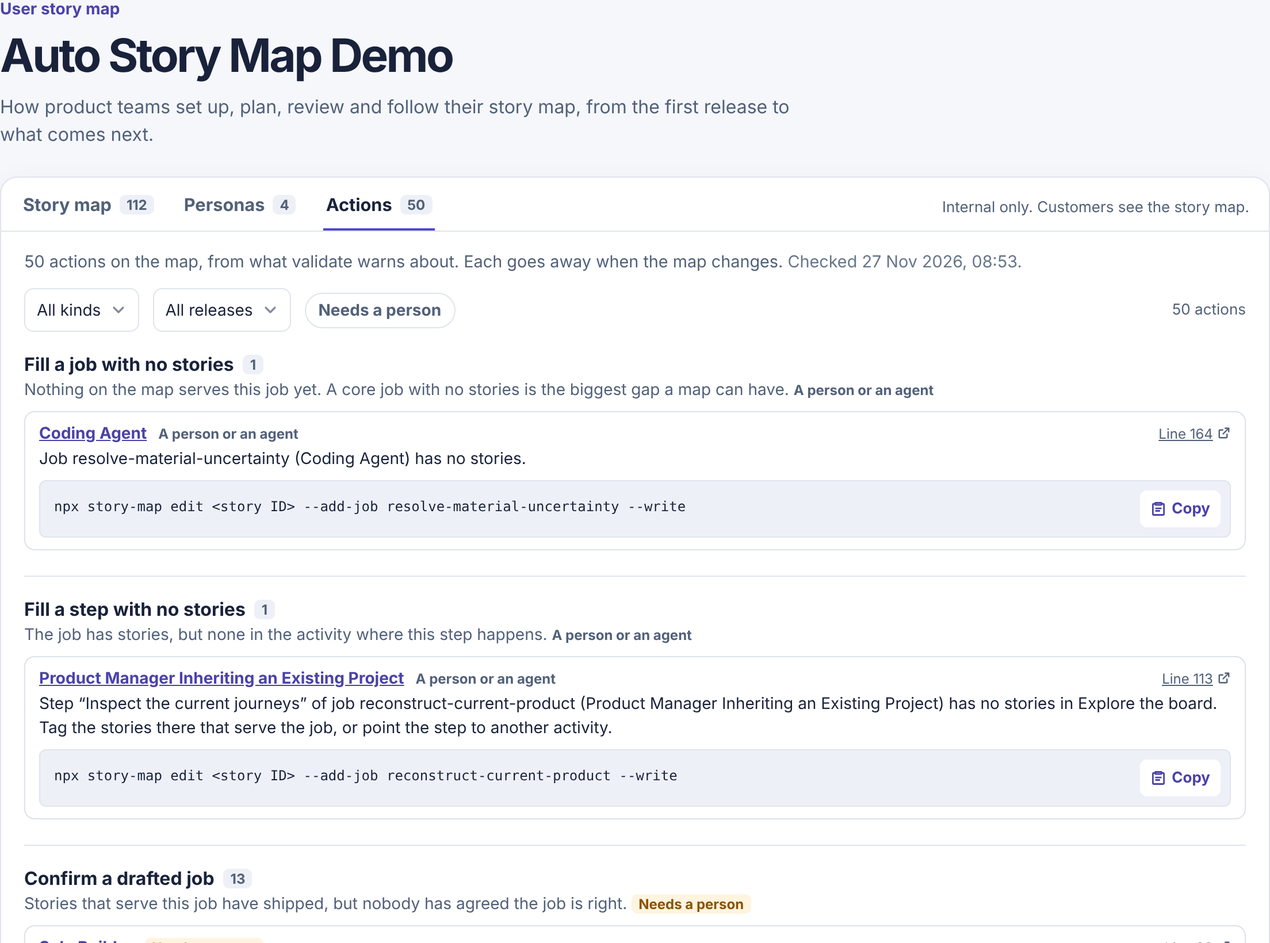
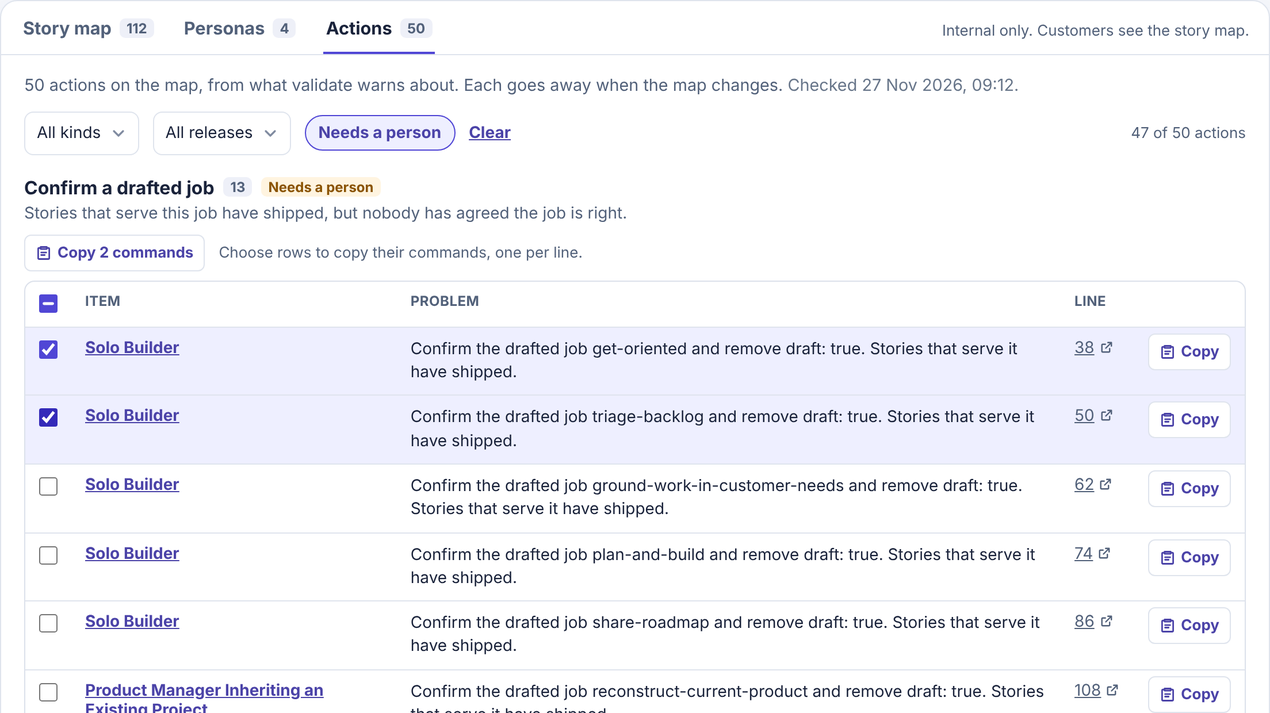
ESM-128: Show actions as tables with copy buttons and bulk copy
Each kind of action is a table with a row per item. Commands are no longer
shown: each row has a Copy button, and ticking rows copies their commands,
one per line. Filter menus offer only choices that match the other filters.

Claude-Session: https://claude.ai/code/session_01Lq2MQQazU2F98gEqQ6vB8y

diff --git a/src/react.tsx b/src/react.tsx
@@ -1901,35 +1901,93 @@ function WhoActs({ needsPerson }: { needsPerson: boolean }) {
     : <span className="esm-action-who">A person or an agent</span>;
 }
 
-/** The fixing command with a **Copy** button that board.js shows when it can copy. */
-function ActionCommand({ command, id }: { command: string; id: string }) {
+/**
+ * Copies one action's command. The command is not shown: it travels in `data-esm-command`,
+ * and board.js shows the button once it can copy. `label` names the item for screen readers.
+ */
+function CopyCommandButton({ command, label }: { command: string; label: string }) {
   return (
-    <div className="esm-change-command esm-action-command">
-      <code id={id}>{command}</code>
-      <button type="button" className="esm-change-copy" data-esm-copy-command={id} aria-describedby={id} hidden>
-        <BriefIcon /><span data-esm-copy-label="">Copy</span>
-      </button>
-    </div>
+    <button type="button" className="esm-change-copy esm-action-copy" data-esm-copy-command={command} title={command} hidden>
+      <BriefIcon /><span data-esm-copy-label="">Copy</span><span className="esm-visually-hidden">{` the command for ${label}`}</span>
+    </button>
   );
 }
 
-/** One action: its item, what to do, who can do it, its line in the map and its command. */
-function ActionEntry({ action, id, links, title }: { action: StoryMapAction; id: string; links: ActionLinks; title?: string }) {
-  // In a panel the item is the panel's own, so the row names the kind instead.
-  const item = title ? { label: title } : links.item(action);
-  const lineHref = links.line(action);
+/** The cell that links to an action's line in the map, or names it. */
+function ActionLine({ action, links }: { action: StoryMapAction; links: ActionLinks }) {
+  if (action.line === undefined) return null;
+  const href = links.line(action);
+  return href
+    ? <a href={href} {...newTab}>{action.line}<NewTabHint /></a>
+    : <>{action.line}</>;
+}
+
+/**
+ * One kind's actions as a table: a row per item, with its release, the problem, its line and,
+ * where a command fixes it, a **Copy** button. Rows with a command get a checkbox, and the
+ * **Copy commands** button above copies the chosen rows' commands, one per line. board.js
+ * shows the checkboxes and buttons once it can copy, so without it the table only reads.
+ */
+function ActionTable({ group, links, caption, releaseTitles, tableId }: {
+  group: StoryMapActionGroup;
+  links: ActionLinks;
+  caption: string;
+  releaseTitles: ReadonlyMap<string, string>;
+  tableId: string;
+}) {
+  const commands = group.actions.filter(action => action.command).length;
+  // A release's own actions are in that release, so the column only helps for stories.
+  const showRelease = group.actions.some(action => action.release && action.item.type === "story");
+  const showLine = group.actions.some(action => action.line !== undefined);
   return (
-    <li className="esm-action">
-      <p className="esm-action-head">
-        {item && (item.href ? <a className="esm-action-item" href={item.href}>{item.label}</a> : <span className="esm-action-item">{item.label}</span>)}
-        <WhoActs needsPerson={action.needsPerson} />
-        {action.line !== undefined && (lineHref
-          ? <a className="esm-action-line" href={lineHref} {...newTab}>{`Line ${action.line}`}<NewTabHint /></a>
-          : <span className="esm-action-line">{`Line ${action.line}`}</span>)}
-      </p>
-      <p className="esm-action-message">{action.message}</p>
-      {action.command && <ActionCommand command={action.command} id={id} />}
-    </li>
+    <div className="esm-action-table-wrap" data-esm-action-table={commands ? "" : undefined}>
+      {commands > 1 && (
+        <p className="esm-action-bulk" hidden>
+          <button type="button" className="esm-change-copy" data-esm-copy-selected={tableId} disabled>
+            <BriefIcon /><span data-esm-copy-label="">Copy commands</span>
+          </button>
+          <span className="esm-action-bulk-note" data-esm-selected-note="">Choose rows to copy their commands, one per line.</span>
+        </p>
+      )}
+      <table className="esm-action-table" id={tableId}>
+        <caption className="esm-visually-hidden">{caption}</caption>
+        <thead>
+          <tr>
+            {commands > 1 && (
+              <th scope="col" className="esm-action-select">
+                <input type="checkbox" data-esm-select-all="" aria-label={`Choose every row in ${group.title}`} />
+              </th>
+            )}
+            <th scope="col">Item</th>
+            {showRelease && <th scope="col">Release</th>}
+            <th scope="col">Problem</th>
+            {showLine && <th scope="col" className="esm-action-line">Line</th>}
+            {commands > 0 && <th scope="col" className="esm-action-copy-cell"><span className="esm-visually-hidden">Copy command</span></th>}
+          </tr>
+        </thead>
+        <tbody>
+          {group.actions.map((action, index) => {
+            const item = links.item(action);
+            return (
+              <tr key={index}>
+                {commands > 1 && (
+                  <td className="esm-action-select">
+                    {action.command && <input type="checkbox" data-esm-select={action.command} aria-label={`Choose ${item?.label ?? "this row"}`} />}
+                  </td>
+                )}
+                <th scope="row" className="esm-action-item">
+                  {item && (item.href ? <a href={item.href}>{item.label}</a> : item.label)}
+                </th>
+                {showRelease && <td className="esm-action-release">{action.item.type === "story" && action.release ? releaseTitles.get(action.release) ?? action.release : ""}</td>}
+                <td className="esm-action-message">{action.message}</td>
+                {showLine && <td className="esm-action-line"><ActionLine action={action} links={links} /></td>}
+                {commands > 0 && <td className="esm-action-copy-cell">{action.command && <CopyCommandButton command={action.command} label={item?.label ?? group.title} />}</td>}
+              </tr>
+            );
+          })}
+        </tbody>
+      </table>
+    </div>
   );
 }
 
@@ -1973,8 +2031,16 @@ function ActionsPage({ groups, filter, preservedParams, releases, links, checked
     delete next[key];
     return actionsHref(filter, preservedParams, next);
   };
-  const releaseIds = new Set(groups.flatMap(group => group.actions.flatMap(action => action.release ? [action.release] : [])));
-  const releaseTitle = (id: string) => releases.find(release => release.id === id)?.title ?? id;
+  // Each menu offers only choices that still match the other filters, so a choice never empties the list.
+  const otherThan = (key: keyof StoryMapActionFilter) => {
+    const rest = { ...chosen };
+    delete rest[key];
+    return filterStoryMapActions(groups, rest);
+  };
+  const kindGroups = otherThan("kind");
+  const releaseIds = new Set(otherThan("release").flatMap(group => group.actions.flatMap(action => action.release ? [action.release] : [])));
+  const releaseTitles = new Map(releases.map(release => [release.id, release.title]));
+  const releaseTitle = (id: string) => releaseTitles.get(id) ?? id;
   const itemLabel = chosen.item;
   const filtering = Object.keys(chosen).length > 0;
   return (
@@ -1994,7 +2060,7 @@ function ActionsPage({ groups, filter, preservedParams, releases, links, checked
             chosen={chosen.kind && storyMapActionKinds[chosen.kind].title}
             options={[
               { label: "All kinds", href: without("kind"), current: !chosen.kind },
-              ...groups.map(group => ({ label: `${group.title} (${group.actions.length})`, href: href({ kind: group.kind }), current: chosen.kind === group.kind })),
+              ...kindGroups.map(group => ({ label: `${group.title} (${group.actions.length})`, href: href({ kind: group.kind }), current: chosen.kind === group.kind })),
             ]}
           />
           {releaseIds.size > 0 && (
@@ -2020,13 +2086,9 @@ function ActionsPage({ groups, filter, preservedParams, releases, links, checked
         const headingId = `${baseId}-action-group-${groupIndex}`;
         return (
           <section className="esm-action-group" aria-labelledby={headingId} key={group.kind} data-kind={group.kind}>
-            <h3 id={headingId}>{group.title} <span className="esm-tab-count">{group.actions.length}</span></h3>
-            <p className="esm-action-why">{group.why} <WhoActs needsPerson={group.needsPerson} /></p>
-            <ul className="esm-action-list">
-              {group.actions.map((action, index) => (
-                <ActionEntry action={action} id={`${baseId}-action-${groupIndex}-${index}`} links={links} key={index} />
-              ))}
-            </ul>
+            <h3 id={headingId}>{group.title} <span className="esm-tab-count">{group.actions.length}</span> <WhoActs needsPerson={group.needsPerson} /></h3>
+            <p className="esm-action-why">{group.why}</p>
+            <ActionTable group={group} links={links} caption={group.title} releaseTitles={releaseTitles} tableId={`${baseId}-action-table-${groupIndex}`} />
           </section>
         );
       })}
@@ -2055,8 +2117,18 @@ function ItemActions({ groups, type, id, panelId, links, tabHref, page = false }
     <section className={page ? "esm-page-actions esm-item-actions" : "esm-detail-section esm-item-actions"} aria-labelledby={headingId}>
       <h4 id={headingId}>Actions</h4>
       <ul className="esm-action-list">
-        {mine.flatMap((group, groupIndex) => group.actions.map((action, index) => (
-          <ActionEntry action={action} id={`${panelId}-action-${groupIndex}-${index}`} links={links} title={group.title} key={`${group.kind}-${index}`} />
+        {mine.flatMap(group => group.actions.map((action, index) => (
+          <li className="esm-action" key={`${group.kind}-${index}`}>
+            <div className="esm-action-text">
+              <p className="esm-action-head">
+                <span className="esm-action-item">{group.title}</span>
+                <WhoActs needsPerson={action.needsPerson} />
+                {action.line !== undefined && <span className="esm-action-line">Line <ActionLine action={action} links={links} /></span>}
+              </p>
+              <p className="esm-action-message">{action.message}</p>
+            </div>
+            {action.command && <CopyCommandButton command={action.command} label={group.title} />}
+          </li>
         )))}
       </ul>
       {tabHref && <p className="esm-item-actions-link"><a href={tabHref}>See them on the Actions tab<span aria-hidden="true"> →</span></a></p>}

diff --git a/styles.css b/styles.css
@@ -682,19 +682,41 @@ button.esm-persona-chip:hover { background: var(--esm-hover); }
 .esm-action-chip a { padding: 0 5px; border-radius: 999px; color: var(--esm-muted); text-decoration: none; }
 .esm-actions-filters .esm-clear { color: var(--esm-accent-ink); font-size: .875rem; font-weight: 650; }
 .esm-actions-filters .esm-results { margin-left: auto; color: var(--esm-muted); font-size: .8125rem; }
-.esm-action-group + .esm-action-group { margin-top: 22px; padding-top: 18px; border-top: 1px solid var(--esm-line); }
-.esm-action-group h3 { display: flex; align-items: center; gap: 8px; margin: 0 0 4px; font-size: 1rem; }
+.esm-action-group + .esm-action-group { margin-top: 24px; padding-top: 18px; border-top: 1px solid var(--esm-line); }
+.esm-action-group h3 { display: flex; flex-wrap: wrap; align-items: center; gap: 8px; margin: 0 0 4px; font-size: 1rem; }
 .esm-action-why { margin: 0 0 10px; color: var(--esm-muted); font-size: .875rem; }
-.esm-action-list { display: grid; gap: 8px; margin: 0; padding: 0; list-style: none; }
-.esm-action { padding: 10px 12px; border: 1px solid var(--esm-card-line); border-radius: 9px; background: var(--esm-paper); }
-.esm-action-head { display: flex; flex-wrap: wrap; align-items: baseline; gap: 4px 10px; margin: 0; font-size: .875rem; }
-.esm-action-item { color: var(--esm-ink); font-weight: 650; }
-a.esm-action-item { color: var(--esm-accent-ink); }
 .esm-action-who { color: var(--esm-muted); font-size: .75rem; font-weight: 650; }
 .esm-action-who[data-person] { padding: 1px 6px; border-radius: 5px; background: var(--esm-stalled-bg); color: var(--esm-stalled); }
-.esm-action-line { margin-left: auto; color: var(--esm-muted); font-size: .75rem; }
-.esm-action-message { margin: 4px 0 0; font-size: .875rem; line-height: 1.45; overflow-wrap: anywhere; }
-.esm-action-command { margin-top: 8px; }
+.esm-action-bulk { display: flex; flex-wrap: wrap; align-items: center; gap: 6px 12px; margin: 0 0 8px; }
+.esm-action-bulk[hidden] { display: none; }
+.esm-action-bulk .esm-change-copy { border: 1px solid var(--esm-line); }
+.esm-action-bulk-note { color: var(--esm-muted); font-size: .8125rem; }
+.esm-action-table-wrap { overflow-x: auto; }
+.esm-action-table { width: 100%; border: 1px solid var(--esm-card-line); border-radius: 9px; border-collapse: separate; border-spacing: 0; background: var(--esm-paper); font-size: .875rem; }
+.esm-action-table th, .esm-action-table td { padding: 9px 12px; border-bottom: 1px solid var(--esm-line); text-align: left; vertical-align: top; }
+.esm-action-table tbody tr:last-child > * { border-bottom: 0; }
+.esm-action-table thead th { color: var(--esm-muted); font-size: .75rem; font-weight: 700; letter-spacing: .02em; text-transform: uppercase; white-space: nowrap; }
+.esm-action-table tbody tr:hover { background: var(--esm-hover); }
+.esm-action-table tbody tr:has(input[data-esm-select]:checked) { background: var(--esm-activity-bg); }
+.esm-action-table .esm-action-item { min-width: 9rem; font-weight: 650; }
+.esm-action-table .esm-action-item a { color: var(--esm-accent-ink); }
+.esm-action-release { min-width: 7rem; color: var(--esm-muted); }
+.esm-action-message { line-height: 1.45; overflow-wrap: anywhere; }
+.esm-action-table .esm-action-line { width: 1%; color: var(--esm-muted); white-space: nowrap; }
+.esm-action-line a { color: var(--esm-muted); }
+.esm-action-select { display: none; width: 1%; }
+.esm-board[data-esm-actions] .esm-action-select { display: table-cell; }
+.esm-action-select input { width: 16px; height: 16px; margin: 2px 0 0; accent-color: var(--esm-accent); }
+.esm-action-copy-cell { width: 1%; text-align: right; white-space: nowrap; }
+.esm-action-table .esm-action-copy-cell { padding-top: 5px; padding-bottom: 5px; }
+.esm-action-copy { border: 1px solid var(--esm-line); }
+.esm-action-list { display: grid; gap: 8px; margin: 0; padding: 0; list-style: none; }
+.esm-action { display: flex; align-items: flex-start; gap: 10px; padding: 10px 12px; border: 1px solid var(--esm-card-line); border-radius: 9px; background: var(--esm-paper); }
+.esm-action-text { flex: 1; min-width: 0; }
+.esm-action-head { display: flex; flex-wrap: wrap; align-items: baseline; gap: 4px 10px; margin: 0; font-size: .875rem; }
+.esm-action .esm-action-item { color: var(--esm-ink); font-weight: 650; }
+.esm-action .esm-action-line { margin-left: auto; color: var(--esm-muted); font-size: .75rem; }
+.esm-action .esm-action-message { margin: 4px 0 0; font-size: .875rem; }
 .esm-item-actions .esm-action { padding: 8px 10px; }
 .esm-item-actions-link { margin: 8px 0 0; font-size: .875rem; }
 .esm-page-actions { margin: 0 0 18px; }
@@ -875,7 +897,20 @@ a.esm-action-item { color: var(--esm-accent-ink); }
   .esm-persona-page { display: block; }
   .esm-actions { padding: 14px 12px 20px; }
   .esm-actions-filters .esm-results { margin-left: 0; flex-basis: 100%; }
-  .esm-action-line { margin-left: 0; }
+  .esm-action .esm-action-line { margin-left: 0; }
+  .esm-action-table thead { position: absolute; width: 1px; height: 1px; overflow: hidden; clip-path: inset(50%); white-space: nowrap; }
+  .esm-action-table, .esm-action-table tbody, .esm-action-table tr { display: block; }
+  .esm-action-table tr { display: grid; grid-template-columns: minmax(0, 1fr) auto; gap: 2px 10px; padding: 10px 12px; border-bottom: 1px solid var(--esm-line); }
+  .esm-action-table tbody tr:last-child { border-bottom: 0; }
+  .esm-action-table th, .esm-action-table td { display: block; padding: 0; border: 0; }
+  .esm-action-table .esm-action-item, .esm-action-table .esm-action-release, .esm-action-table .esm-action-message, .esm-action-table td.esm-action-line { grid-column: 1; min-width: 0; width: auto; }
+  .esm-action-table .esm-action-copy-cell { grid-column: 2; grid-row: 1 / span 4; }
+  /* With board.js, a checkbox column goes first. */
+  .esm-board[data-esm-actions] .esm-action-table tr:has(> .esm-action-select) { grid-template-columns: auto minmax(0, 1fr) auto; }
+  .esm-board[data-esm-actions] .esm-action-table .esm-action-select { display: block; grid-column: 1; grid-row: 1 / span 4; }
+  .esm-board[data-esm-actions] .esm-action-table tr:has(> .esm-action-select) > :not(.esm-action-select, .esm-action-copy-cell) { grid-column: 2; }
+  .esm-board[data-esm-actions] .esm-action-table tr:has(> .esm-action-select) > .esm-action-copy-cell { grid-column: 3; }
+  .esm-action-table td.esm-action-line:not(:empty)::before { content: "Line "; }
   .esm-persona-list { display: none; }
   .esm-persona-picker { display: block; padding: 12px 12px 0; }
   .esm-persona-picker > .esm-select { display: flex; align-items: center; gap: 8px; width: 100%; }

diff --git a/src/board.ts b/src/board.ts
@@ -571,26 +571,75 @@ export function enhanceStoryMapChanges(root: ParentNode = document) {
 
 const enhancedActions = new WeakSet<Element>();
 
+/** “Copy 3 commands”, or “Copy commands” when nothing is chosen. */
+function selectedLabel(count: number) {
+  return count === 0 ? "Copy commands" : count === 1 ? "Copy 1 command" : `Copy ${count} commands`;
+}
+
 /**
- * Shows the **Copy** button beside each action's command, on the Actions tab and in panels,
- * and makes it copy the command, saying “Copied command”. Without clipboard access, the
- * buttons stay hidden and the command can still be selected. Safe to call more than once.
+ * Turns on the Actions tables, on the Actions tab and in panels, once the clipboard can be used:
+ * shows each row's **Copy** button, which copies its command from `data-esm-copy-command`, and,
+ * in tables with more than one command, the row checkboxes, a select-all box and **Copy commands**,
+ * which copies the chosen rows' commands, one per line. Says what it copied in the board's live
+ * region. Without clipboard access, nothing changes and the tables only read. Safe to call more than once.
  */
 export function enhanceStoryMapActions(root: ParentNode = document) {
   if (typeof navigator === "undefined" || !navigator.clipboard?.writeText) return;
   for (const board of root.querySelectorAll<HTMLElement>(".esm-board")) {
     if (enhancedActions.has(board)) continue;
     enhancedActions.add(board);
+    // CSS shows the checkbox column once this is set.
+    board.dataset.esmActions = "";
     for (const button of board.querySelectorAll<HTMLButtonElement>("button[data-esm-copy-command]")) button.hidden = false;
+    for (const bulk of board.querySelectorAll<HTMLElement>(".esm-action-bulk")) bulk.hidden = false;
+
+    const copy = (text: string, control: HTMLElement, said: string) => {
+      navigator.clipboard.writeText(text).then(() => {
+        showCopied(control, "Copied");
+        announce(board, said);
+      }, () => announce(board, "Could not copy. Run story-map actions in a terminal to see the commands."));
+    };
+    const tableFor = (element: Element) => element.closest<HTMLElement>("[data-esm-action-table]");
+    const update = (wrap: HTMLElement) => {
+      const boxes = [...wrap.querySelectorAll<HTMLInputElement>("input[data-esm-select]")];
+      const chosen = boxes.filter(box => box.checked).length;
+      const all = wrap.querySelector<HTMLInputElement>("input[data-esm-select-all]");
+      if (all) {
+        all.checked = chosen > 0 && chosen === boxes.length;
+        all.indeterminate = chosen > 0 && chosen < boxes.length;
+      }
+      const button = wrap.querySelector<HTMLButtonElement>("button[data-esm-copy-selected]");
+      if (button) {
+        button.disabled = chosen === 0;
+        const label = button.querySelector<HTMLElement>("[data-esm-copy-label]");
+        if (label) {
+          label.textContent = selectedLabel(chosen);
+          label.dataset.esmLabel = selectedLabel(chosen);
+        }
+      }
+    };
+
+    board.addEventListener("change", event => {
+      const input = event.target instanceof Element ? event.target.closest<HTMLInputElement>("input[data-esm-select-all], input[data-esm-select]") : null;
+      const wrap = input && tableFor(input);
+      if (!input || !wrap) return;
+      if (input.matches("[data-esm-select-all]")) {
+        for (const box of wrap.querySelectorAll<HTMLInputElement>("input[data-esm-select]")) box.checked = input.checked;
+      }
+      update(wrap);
+    });
     board.addEventListener("click", event => {
-      const button = event.target instanceof Element ? event.target.closest<HTMLButtonElement>("button[data-esm-copy-command]") : null;
-      if (!button) return;
-      const command = document.getElementById(button.dataset.esmCopyCommand ?? "");
-      if (!command || !board.contains(command)) return;
-      navigator.clipboard.writeText(command.textContent ?? "").then(() => {
-        showCopied(button, "Copied");
-        announce(board, "Copied command");
-      }, () => announce(board, "Could not copy the command. Select it to copy it."));
+      const target = event.target instanceof Element ? event.target : null;
+      const one = target?.closest<HTMLButtonElement>("button[data-esm-copy-command]");
+      if (one) {
+        copy(one.dataset.esmCopyCommand ?? "", one, "Copied command");
+        return;
+      }
+      const many = target?.closest<HTMLButtonElement>("button[data-esm-copy-selected]");
+      const wrap = many && tableFor(many);
+      if (!many || !wrap || many.disabled) return;
+      const commands = [...wrap.querySelectorAll<HTMLInputElement>("input[data-esm-select]")].filter(box => box.checked).map(box => box.dataset.esmSelect ?? "");
+      if (commands.length) copy(commands.join("\n"), many, commands.length === 1 ? "Copied 1 command" : `Copied ${commands.length} commands`);
     });
   }
 }

diff --git a/CHANGELOG.md b/CHANGELOG.md
@@ -4,7 +4,7 @@ All notable changes to `auto-story-map` are recorded here. The project follows [
 
 ## Unreleased
 
-- **See what the map is waiting for:** Internal boards have an **Actions** tab next to **Story map** and **Personas**. It lists what validate warns about, grouped by kind: gaps, drafts to confirm, estimates, tests and the rest, each with a link to its story, release or persona, who can act, and the command that fixes it with a **Copy** button. It filters by kind, release and **Needs a person**, with links that work without JavaScript. Story and release panels and persona pages show their own actions. `story-map actions` prints the same list for agents and people at a terminal, and `validate --format json` gives each warning a `kind`. Pass `mapFile` to `getStoryMapPage` to show each action's line. Customers never see actions. See [See what the map is waiting for](https://github.com/duncan-m/auto-story-map/blob/main/docs/story-map.md#see-what-the-map-is-waiting-for).
+- **See what the map is waiting for:** Internal boards have an **Actions** tab next to **Story map** and **Personas**. It lists what validate warns about in a table for each kind: gaps, drafts to confirm, estimates, tests and the rest. Each row links to its story, release or persona and says the problem and its line, and a **Copy** button copies the command that fixes it. Tick several rows to copy their commands at once, one per line. It filters by kind, release and **Needs a person**, with links that work without JavaScript. Story and release panels and persona pages show their own actions. `story-map actions` prints the same list for agents and people at a terminal, and `validate --format json` gives each warning a `kind`. Pass `mapFile` to `getStoryMapPage` to show each action's line. Customers never see actions. See [See what the map is waiting for](https://github.com/duncan-m/auto-story-map/blob/main/docs/story-map.md#see-what-the-map-is-waiting-for).
 - **Change a story from the board:** Internal story panels have a **Change** section with status, reason and release pickers. The board does not save: it shows the matching `story-map edit` command, with each value quoted for the shell, and a **Copy** button, to paste into a terminal or an agent's chat. It needs `board.js`. Internal viewers only. See [Change a story from the board](https://github.com/duncan-m/auto-story-map/blob/main/docs/story-map.md#change-a-story-from-the-board).
 - **Save status and release changes from the local preview:** On `story-map preview`, the story panel's **Change** section has a **Save** button that writes the new status, reason or release to the map file, through the same checks as `story-map edit --write`, then reopens the panel. The preview's edit route now accepts `status` and `release` operations beside persona edits, and still refuses a page older than the file, another origin, or a request without its token. `--read-only` turns it off. A host's board saves the same way with the new `storyEditing` prop, set from `createStoryMapEditServer`'s `read`. Deployed boards stay read-only. See [Save from the local preview](https://github.com/duncan-m/auto-story-map/blob/main/docs/story-map.md#save-from-the-local-preview).
 - **Edit personas in your own app running locally:** A host's board can now edit personas on the Personas tab, like `story-map preview`, while the app runs on your machine. `createStoryMapEditServer` gains `read(request)`, which reads the map on each request and returns edit props only for a loopback `Host` outside a production build, and `handleRequest(request)` for Fetch routes such as App Router, vinext, Remix, Hono and Workers. Its new `authorize` option is required, so a host decides who may edit: pass the same rule as the board's `canViewInternal`. An internal Personas tab opened from `localhost` without a save route notes that editing is not set up, with a link to the steps; `personaEditing={false}` skips the note. Deployed boards stay read-only. See [In your own app](https://github.com/duncan-m/auto-story-map/blob/main/docs/story-map.md#in-your-own-app).

diff --git a/docs/story-map.md b/docs/story-map.md
@@ -650,9 +650,11 @@ The schema covers the shape of each field. Run the validator for the checks that
 
 Most warnings ask someone to do something: confirm a drafted job, agree an estimate, tag a test. Internal boards list them on an **Actions** tab, next to **Story map** and **Personas**, so people who never run the CLI see them too. Its count is the number of actions on the whole map, whatever the board's filters show.
 
-The tab groups actions by kind, in this order: gaps (a job, a job's step or a persona with no stories, stories that say nothing about who they are for, a story for a persona that serves none of their jobs), drafts to confirm (jobs, personas' context and releases' impact), estimates to agree, tests to tag, then the rest (a release with no impact, a blocked or cut story with no reason, a dependency on cut work). Within a group, actions follow the releases in map order, then the map. Each group says why it matters and who can act. Each action links to its story, release or persona, shows the warning, says **Needs a person** or **A person or an agent**, and, where a command fixes it, shows the command with a **Copy** button, such as `npx story-map confirm get-oriented --write`. A `<…>` in a command marks a value to fill in. Estimates have no command, because only the team agrees one.
+The tab shows a table for each kind of action, in this order: gaps (a job, a job's step or a persona with no stories, stories that say nothing about who they are for, a story for a persona that serves none of their jobs), drafts to confirm (jobs, personas' context and releases' impact), estimates to agree, tests to tag, then the rest (a release with no impact, a blocked or cut story with no reason, a dependency on cut work). Each table says why the kind matters and who can act: **Needs a person** or **A person or an agent**. It has a row per item, following the releases in map order, then the map. Each row links to its story, release or persona, and shows the story's release, the problem and its line in the map. Where a command fixes it, the row has a **Copy** button that copies the command, such as `npx story-map confirm get-oriented --write`, without showing it. A `<…>` in a command marks a value to fill in. Estimates have no command, because only the team agrees one.
 
-Filter the tab by kind, by release or to **Needs a person**. The filters are links, so they work without JavaScript, and **Copy** needs [`board.js`](#integrate-with-a-product). An empty tab says “Nothing is waiting on the map” and when it was checked. Story and release panels and each persona's page show their own actions, with a link to the tab narrowed to them. Cards show nothing new.
+To act on several items at once, tick their rows, or the box in the table's header for all of them, and choose **Copy N commands**. It copies the chosen rows' commands, one per line, to paste into a terminal or an agent's chat.
+
+Filter the tab by kind, by release or to **Needs a person**. The filters are links, so they work without JavaScript, and each menu offers only the choices that match the other filters. **Copy** and the row checkboxes need [`board.js`](#integrate-with-a-product): without it the tables only read, and `story-map actions` prints the commands. An empty tab says “Nothing is waiting on the map” and when it was checked. Story and release panels and each persona's page show their own actions, each with its **Copy** button, and a link to the tab narrowed to them. Cards show nothing new.
 
 Nothing is dismissed by hand: an action goes away when the map changes. The tab lists validate's warnings about the map and, when the host passes a [tests index](#link-tests-to-stories), in-progress and merged stories that no test names. Checks that need the repository's files, such as missing sources, are not on the tab. The customer view never includes actions.
 

diff --git a/docs/ENGINEERING-OVERVIEW.md b/docs/ENGINEERING-OVERVIEW.md
@@ -281,7 +281,7 @@ History lines and the “Last updated” time link to their pull request and com
 
 ### Actions tab
 
-`getStoryMapForViewer` attaches `actions`, from `getStoryMapActions`, and `actionsCheckedAt` to internal views only, before any filter, so the tab's count does not move with the filters. With `tests`, stories no test names are actions too. With `mapFile`, it parses the source once more for `locate`, so each action carries its `line`, and the view carries `mapPath` for the board to link it with `sourceBaseUrl`. The customer projection is an allow-list and never copies them. `filterStoryMapView` reads `view=actions` and the `action-kind`, `action-release`, `action-item` and `needs-person` parameters into `filter.actions`, keeping only kinds, releases and items the view has. The board narrows the list itself with `filterStoryMapActions`. `ActionsPage` replaces the map, its toolbar and panels, as the Personas tab does. `ItemActions` renders an item's own actions in story and release panels and on the persona page, matching both the item's type and ID, because IDs are only unique within their list. Commands are text with a **Copy** button that `enhanceStoryMapActions` in board.js shows. Nothing is dismissed: an action goes away when the map changes, so the tab, the CLI and validate never disagree.
+`getStoryMapForViewer` attaches `actions`, from `getStoryMapActions`, and `actionsCheckedAt` to internal views only, before any filter, so the tab's count does not move with the filters. With `tests`, stories no test names are actions too. With `mapFile`, it parses the source once more for `locate`, so each action carries its `line`, and the view carries `mapPath` for the board to link it with `sourceBaseUrl`. The customer projection is an allow-list and never copies them. `filterStoryMapView` reads `view=actions` and the `action-kind`, `action-release`, `action-item` and `needs-person` parameters into `filter.actions`, keeping only kinds, releases and items the view has. The board narrows the list itself with `filterStoryMapActions`. `ActionsPage` replaces the map, its toolbar and panels, as the Personas tab does. `ItemActions` renders an item's own actions in story and release panels and on the persona page, matching both the item's type and ID, because IDs are only unique within their list. `ActionTable` renders one table per kind, a row per action. Commands are never shown: each row's **Copy** button carries its command in `data-esm-copy-command`, and in tables with more than one command each row's checkbox carries it in `data-esm-select`. `enhanceStoryMapActions` in board.js shows the buttons and checkboxes once the clipboard can be used, sets `data-esm-actions` on the board so CSS shows the checkbox column, keeps the select-all box and **Copy N commands** in step with the ticked rows, and copies their commands one per line. Without it the tables only read. Nothing is dismissed: an action goes away when the map changes, so the tab, the CLI and validate never disagree.
 
 ### Filter toolbar
 
